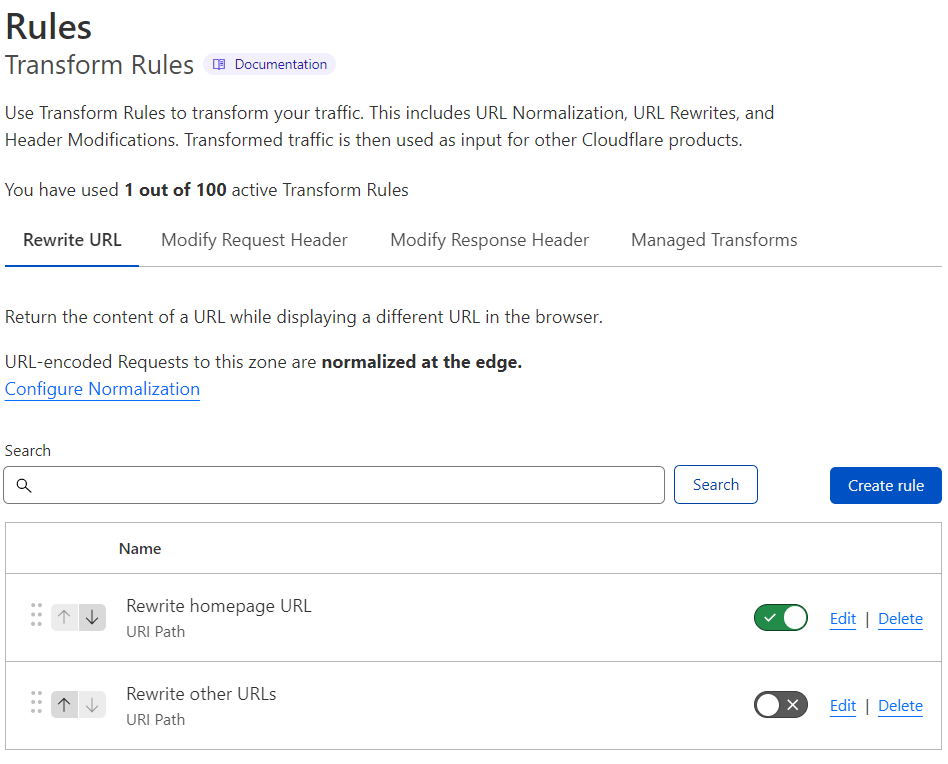
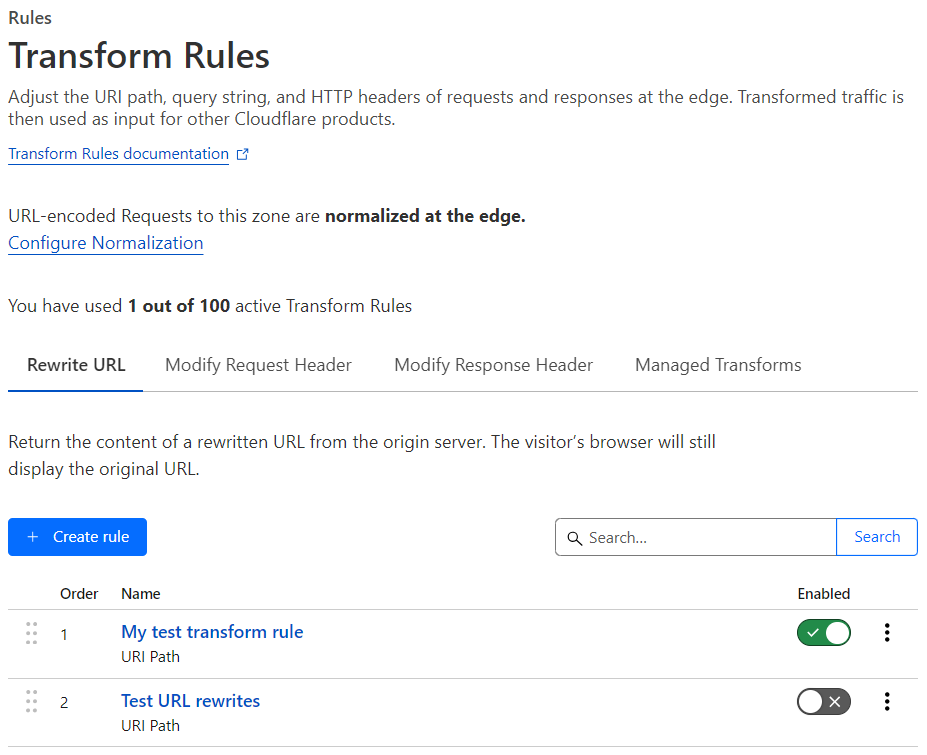
[Rules] Update Transform Rules (#14721)

diff --git a/content/rules/transform/manage.md b/content/rules/transform/manage.md
@@ -20,7 +20,7 @@ You can perform the following operations in the **Transform Rules** page:
 
 ## Create rules
 
-In **Transform Rules** you can create the following rules:
+In **Rules** > **Transform Rules** you can create the following rules:
 
 - [Rewrite URL rules](/rules/transform/url-rewrite/create-dashboard/)
 - [HTTP request header modification rules](/rules/transform/request-header-modification/create-dashboard/)
@@ -28,24 +28,20 @@ In **Transform Rules** you can create the following rules:
 
 Refer to each linked section for details on creating each rule type.
 
-## Manage rules
+## Turn on or off a rule
 
-Manage your existing Transform Rules using the toggle and the links located on the right of the rule you want to change, or by using the handle located on the left of the rule.
+Select the **Enabled** toggle next to the rule to turn it on or off.
 
-![For each rule in the rules list, you can change its order, enable/disable the rule, edit the rule, or delete the rule.](/images/rules/transform/rule-operations.png)
+## Edit a rule
 
-### Enable or disable a rule
+To edit a rule, select the rule name. Alternatively, select the three dots menu > **Edit**.
 
-Select the on/off toggle associated with a Transform Rule to enable or disable it.
+## Delete a rule
 
-### Edit a rule
+To delete a rule, select the three dots menu > **Delete** next to the rule you want to remove. In the confirmation dialog that appears, select **Delete** to confirm and complete the operation.
 
-Select **Edit** to open the **Edit Rule** panel and make the changes you want.
+## Order rules
 
-### Delete a rule
+Cloudflare evaluates each type of Transform Rules in list order, where rules are evaluated in the order they appear in the Rules List. You can drag and drop Transform Rules into position to reorder them using the handle next to each rule.
 
-Select **Delete** next to the existing rule you want to remove. In the confirmation dialog that appears, select **Delete** to confirm and complete the operation.
-
-### Order rules
-
-Cloudflare evaluates each type of Transform Rules in list order, where rules are evaluated in the order they appear in the Rules List. You can drag and drop Transform Rules into position to reorder them using the handle on the left of the rule.
+To specify an exact rule position, select the three dots menu > **Move to** and enter the new rule position.

diff --git a/content/rules/transform/url-rewrite/_index.md b/content/rules/transform/url-rewrite/_index.md
@@ -17,7 +17,7 @@ You can manipulate the URL of a request through different operations, namely rew
 Use a URL rewrite to return the content of a URL while displaying a different URL in the browser. You can rewrite the URI path, the query string, or both.
 
 {{<Aside type="warning">}}
-You cannot rewrite the hostname using a rewrite URL rule. To rewrite the hostname, use an [origin rule](/rules/origin-rules/) or a [Page Rule](/rules/page-rules/how-to/override-url-or-ip-address/).
+You cannot rewrite the hostname using a rewrite URL rule. To rewrite the hostname, use an [origin rule](/rules/origin-rules/) or a [Page Rule](/rules/page-rules/how-to/override-url-or-ip-address/) (deprecated).
 {{</Aside>}}
 
 ## Static and dynamic rewrites

diff --git a/content/rules/transform/url-rewrite/create-dashboard.md b/content/rules/transform/url-rewrite/create-dashboard.md
@@ -16,8 +16,6 @@ To create a rule:
 
 2. Go to **Rules** > **Transform Rules**.
 
-    ![The Transform Rules page in the Cloudflare dashboard with a tab for each type of Transform Rule you can create.](/images/rules/transform/transform-rules-tab.png)
-
 3. In the **Rewrite URL** tab, select **Create rule**.
 
     ![The rewrite URL rule creation page in the Cloudflare dashboard.](/images/rules/transform/create-url-rewrite-rule.png)
